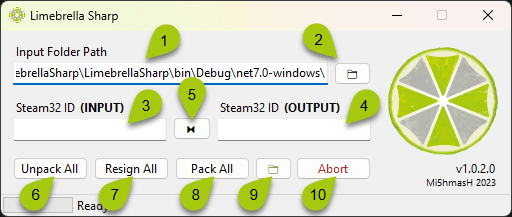
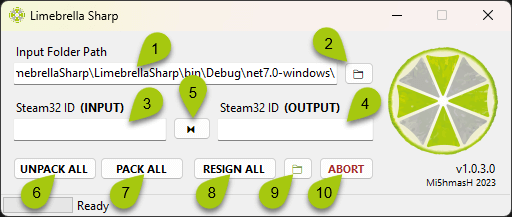
Updated the Readme

Changed region(s): [[0.0312, 0.1106, 0.75, 0.6083], [0.0312, 0.7189, 0.75, 0.9954], [0.9375, 0.7465, 0.9688, 0.8018]]

diff --git a/LimebrellaSharp/Form1.cs b/LimebrellaSharp/Form1.cs
@@ -132,8 +132,8 @@ public partial class Form1 : Form
     {
         if (_isBusy) return;
         _isBusy = true;
-        CreateDirectories();
         ValidateSteamId();
+        CreateDirectories();
         var pText = new Progress<string>(s => toolStripStatusLabel1.Text = s);
         var pPercentage = new Progress<int>(i => toolStripProgressBar1.Value = i);
         _cts = new CancellationTokenSource();
@@ -173,17 +173,20 @@ public partial class Form1 : Form
             pPercentage.Report(progress);
             Parallel.For((long)0, files.Length, po, (ctr) =>
             {
+                // load file
                 var dsssFile = new DsssLimeFile();
                 var resultRead = dsssFile.SetFileData(files[ctr]);
                 if (!resultRead.Result) goto ORDER_66;
 
+                // decrypt file
                 if (!limeDeencryptor.Limetree(dsssFile, steamId)) return;
 
+                // save file
                 var filePath = Path.Combine(AppInfo.OutputPath, Path.GetFileName(files[ctr]));
                 var fileSegments = dsssFile.GetFileSegments();
                 var writeResult = WriteBytesToFile(filePath, fileSegments);
 
-                if (writeResult) unpackedFiles++; 
+                if (writeResult) unpackedFiles++;
                 ORDER_66:
                 Interlocked.Increment(ref progress);
                 pText.Report($@"[{progress}/{files.Length}] Processing files...");
@@ -194,13 +197,83 @@ public partial class Form1 : Form
             pPercentage.Report(100);
         });
     }
-    
+
+    private async void ButtonPackAll_Click(object sender, EventArgs e)
+    {
+        if (_isBusy) return;
+        _isBusy = true;
+        ValidateSteamId();
+        CreateDirectories();
+        var pText = new Progress<string>(s => toolStripStatusLabel1.Text = s);
+        var pPercentage = new Progress<int>(i => toolStripProgressBar1.Value = i);
+        _cts = new CancellationTokenSource();
+        ButtonAbort.Visible = true;
+
+        try
+        {
+            await PackAll(pText, pPercentage);
+        }
+        catch (OperationCanceledException)
+        {
+            toolStripStatusLabel1.Text = @"The operation was aborted by the user.";
+        }
+        AbortOperation();
+    }
+    private Task PackAll(IProgress<string> pText, IProgress<int> pPercentage)
+    {
+        return Task.Run(() =>
+        {
+            if (!DoesInputDirectoryExists()) return;
+
+            var limeDeencryptor = new LimeDeencryptor();
+
+            var steamIdRight = ulong.TryParse(TBSteamIdRight.Text, out var result) ? result : 0;
+            var packedFiles = 0;
+
+            var files = Directory.GetFiles(TBFilepath.Text);
+
+            ParallelOptions po = new()
+            {
+                CancellationToken = _cts.Token,
+                MaxDegreeOfParallelism = Environment.ProcessorCount - 1
+            };
+
+            var progress = 0;
+            pText.Report($@"[{progress}/{files.Length}] Processing files...");
+            pPercentage.Report(progress);
+            Parallel.For((long)0, files.Length, po, ctr =>
+            {
+                // load file
+                var dsssFile = new DsssLimeFile();
+                var resultRead = dsssFile.SetFileSegments(files[ctr]);
+                if (!resultRead.Result) goto ORDER_66;
+
+                // encrypt
+                limeDeencryptor.Limetree(dsssFile, steamIdRight, true);
+
+                // save file
+                var filePath = Path.Combine(AppInfo.OutputPath, Path.GetFileName(files[ctr]));
+                var fileData = dsssFile.GetFileData();
+                var writeResult = WriteBytesToFile(filePath, fileData);
+
+                if (writeResult) packedFiles++;
+                ORDER_66:
+                Interlocked.Increment(ref progress);
+                pText.Report($@"[{progress}/{files.Length}] Processing files...");
+                pPercentage.Report((int)((double)progress / files.Length * 100));
+
+            });
+            pText.Report($@"Packing done. Number of packed files: {packedFiles}.");
+            pPercentage.Report(100);
+        });
+    }
+
     private async void ButtonResignAll_Click(object sender, EventArgs e)
     {
         if (_isBusy) return;
         _isBusy = true;
-        CreateDirectories();
         ValidateSteamId();
+        CreateDirectories();
         var pText = new Progress<string>(s => toolStripStatusLabel1.Text = s);
         var pPercentage = new Progress<int>(i => toolStripProgressBar1.Value = i);
         _cts = new CancellationTokenSource();
@@ -241,6 +314,7 @@ public partial class Form1 : Form
             pPercentage.Report(progress);
             Parallel.For((long)0, files.Length, po, ctr =>
             {
+                // load file
                 var dsssFile = new DsssLimeFile();
                 var resultRead = dsssFile.SetFileData(files[ctr]);
                 if (!resultRead.Result) goto ORDER_66;
@@ -253,10 +327,10 @@ public partial class Form1 : Form
 
                 // save file
                 var filePath = Path.Combine(AppInfo.OutputPath, Path.GetFileName(files[ctr]));
-                var fileSegments = dsssFile.GetFileData();
-                var writeResult = WriteBytesToFile(filePath, fileSegments);
+                var fileData = dsssFile.GetFileData();
+                var writeResult = WriteBytesToFile(filePath, fileData);
 
-                if (writeResult) resignedFiles++; 
+                if (writeResult) resignedFiles++;
                 ORDER_66:
                 Interlocked.Increment(ref progress);
                 pText.Report($@"[{progress}/{files.Length}] Processing files...");
@@ -267,81 +341,12 @@ public partial class Form1 : Form
         });
     }
 
-    private async void ButtonPackAll_Click(object sender, EventArgs e)
-    {
-        if (_isBusy) return;
-        _isBusy = true;
-        CreateDirectories();
-        ValidateSteamId();
-        var pText = new Progress<string>(s => toolStripStatusLabel1.Text = s);
-        var pPercentage = new Progress<int>(i => toolStripProgressBar1.Value = i);
-        _cts = new CancellationTokenSource();
-        ButtonAbort.Visible = true;
-
-        try
-        {
-            await PackAll(pText, pPercentage);
-        }
-        catch (OperationCanceledException)
-        {
-            toolStripStatusLabel1.Text = @"The operation was aborted by the user.";
-        }
-        AbortOperation();
-    }
-    private Task PackAll(IProgress<string> pText, IProgress<int> pPercentage)
-    {
-        return Task.Run(() =>
-        {
-            if (!DoesInputDirectoryExists()) return;
-
-            var limeDeencryptor = new LimeDeencryptor();
-
-            var steamIdRight = ulong.TryParse(TBSteamIdRight.Text, out var result) ? result : 0;
-            var packedFiles = 0;
-
-            var files = Directory.GetFiles(TBFilepath.Text);
-
-            ParallelOptions po = new()
-            {
-                CancellationToken = _cts.Token,
-                MaxDegreeOfParallelism = Environment.ProcessorCount - 1
-            };
-
-            var progress = 0;
-            pText.Report($@"[{progress}/{files.Length}] Processing files...");
-            pPercentage.Report(progress);
-            Parallel.For((long)0, files.Length, po, ctr =>
-            {
-                var dsssFile = new DsssLimeFile();
-                var resultRead = dsssFile.SetFileSegments(files[ctr]);
-                if (!resultRead.Result) goto ORDER_66;
-                
-                // encrypt
-                limeDeencryptor.Limetree(dsssFile, steamIdRight, true);
-                
-                // save file
-                var filePath = Path.Combine(AppInfo.OutputPath, Path.GetFileName(files[ctr]));
-                var fileSegments = dsssFile.GetFileData();
-                var writeResult = WriteBytesToFile(filePath, fileSegments);
-
-                if (writeResult) packedFiles++; 
-                ORDER_66:
-                Interlocked.Increment(ref progress);
-                pText.Report($@"[{progress}/{files.Length}] Processing files...");
-                pPercentage.Report((int)((double)progress / files.Length * 100));
-
-            });
-            pText.Report($@"Packing done. Number of packed files: {packedFiles}.");
-            pPercentage.Report(100);
-        });
-    }
-
     private async void ButtonBruteforceSteamID_Click(object sender, EventArgs e)
     {
         if (_isBusy) return;
         _isBusy = true;
-        CreateDirectories();
         ValidateSteamId();
+        CreateDirectories();
         var pText = new Progress<string>(s => toolStripStatusLabel1.Text = s);
         var pPercentage = new Progress<int>(i => toolStripProgressBar1.Value = i);
         ButtonAbort.Visible = true;

diff --git a/LimebrellaSharp/Form1.Designer.cs b/LimebrellaSharp/Form1.Designer.cs
@@ -106,7 +106,7 @@
             // 
             ButtonPackAll.Font = new Font("Segoe UI", 8.25F, FontStyle.Bold, GraphicsUnit.Point);
             ButtonPackAll.ForeColor = SystemColors.ControlText;
-            ButtonPackAll.Location = new Point(102, 126);
+            ButtonPackAll.Location = new Point(99, 126);
             ButtonPackAll.Name = "ButtonPackAll";
             ButtonPackAll.Size = new Size(84, 23);
             ButtonPackAll.TabIndex = 7;

diff --git a/README.md b/README.md
@@ -37,15 +37,23 @@ There are three ways to achieve this. The first one is to drop the SaveData file
 ## Unpacking data
 Type in the Steam32_ID that was used to pack the SaveData file\s, into a TextBox **(3)** and press the **"Unpack All"** button **(6)**.
 
-## Resigning files
-Type in the Steam32_ID that was used to pack the SaveData file\s, into a TextBox **(3)**.   
-Then, type in the Steam32_ID, that you want to pack the SaveData file\s with, into a TextBox **(4)**. If you don't know your SteamID, then you can use [this site](https://www.steamidfinder.com) to find it. Once you have them typed in, just click the **"Resign All"** button **(7)** to resign all SaveData files.
+> **Note:** After that, you can find the unpacked files inside the ".\\_OUTPUT" directory.
 
 ## Packing data
-Type in the Steam32_ID that you want to pack the SaveData file\s with, into a TextBox **(4)** and press the **"Pack All"** button **(8)**.
+Type in the Steam32_ID that you want to pack the SaveData file\s with, into a TextBox **(4)** and press the **"Pack All"** button **(7)**.
+
+> **Note:** After that, you can find the packed files inside the ".\\_OUTPUT" directory.
+
+## Resigning files
+If you just want to resign your SaveData files to use them on another Steam Account then follow the steps below.
+
+First, type in the Steam32_ID that was used to pack the SaveData file\s, into a TextBox **(3)**. It is a numeric ID of a Steam Account that belongs to the person that gave you their SaveData files.
+Then, type in the Steam32_ID, that you want to pack the SaveData file\s with, into a TextBox **(4)**. This should be a numeric ID of a Steam Account on which you would like to load up the resigned SaveData files. If you don't know your SteamID, then you can use [this site](https://www.steamidfinder.com) to find it. Once you have both IDs typed in, just click the **"Resign All"** button **(8)** to resign all SaveData files.
+
+> **Note:** After that, you can find the packed files inside the ".\\_OUTPUT" directory. All of them are signed with the Steam32_ID from the TextBox **(4)**.
 
 ## Open the Output Directory
-You can open the Output directory in a new Explorer window by using the button **(9)**.
+You can open the **".\\_OUTPUT"** directory in a new Explorer window by using the button **(9)**.
 
 ## Other buttons
 Button **(5)** swaps TextBox **(3)** and TextBox **(4)** values.
